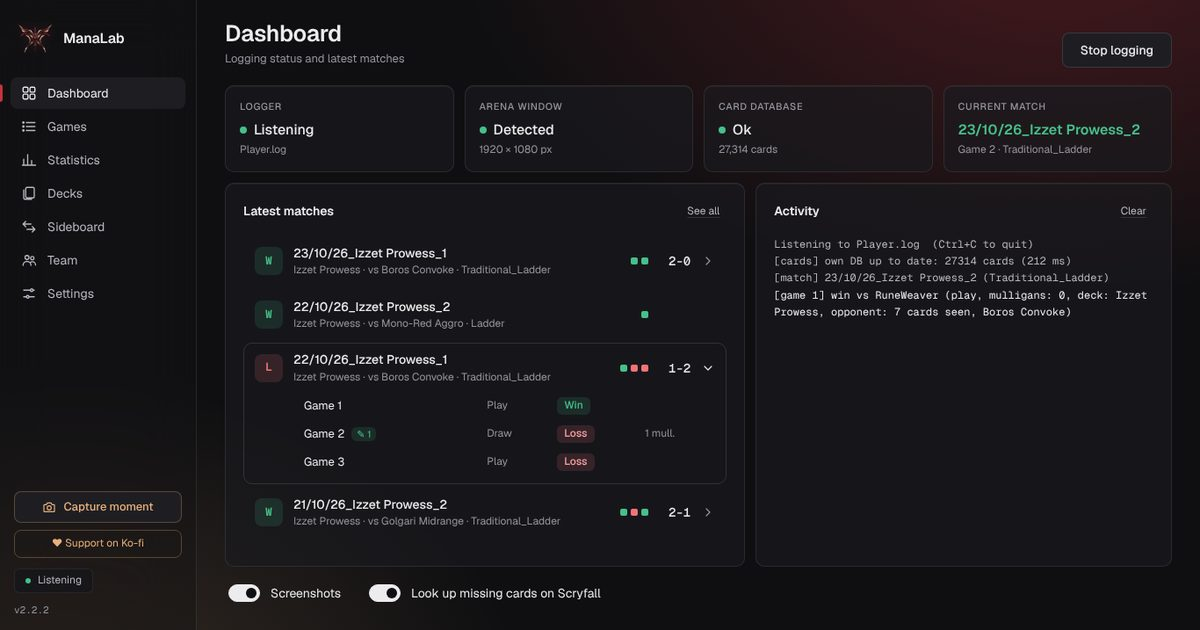
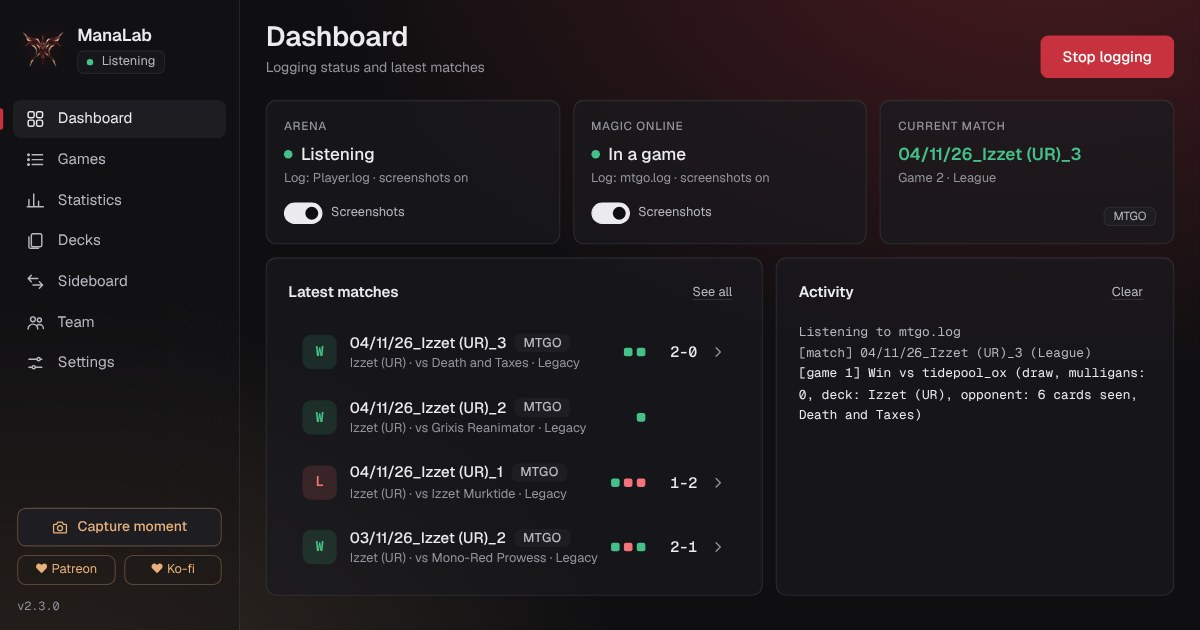
Web 2.3: ancla #magic-online en la FAQ, og.jpg con la 2.3.0 y MTGO, capturas de Magic Online en Novedades
Claude-Session: https://claude.ai/code/session_01AcWBVMV74zF2awVGossMpq

diff --git a/es/index.html b/es/index.html
@@ -243,6 +243,8 @@ a.idioma { text-decoration: none; display: inline-grid; place-items: center; }
 .novedad { display: grid; grid-template-columns: minmax(0, 1.15fr) minmax(0, 0.85fr); gap: 40px; align-items: center; }
 .novedad:nth-child(even) { grid-template-columns: minmax(0, 0.85fr) minmax(0, 1.15fr); }
 .novedad:nth-child(even) .ventana { order: 2; }
+.novedades.mtgo-capturas { margin-top: 28px; }
+details[id] { scroll-margin-top: 90px; }
 .novedad .ventana { align-self: center; }
 .novedad .ventana img { aspect-ratio: auto; height: auto; object-fit: contain; }
 .novedad .ventana.estrecha { justify-self: center; width: 100%; max-width: 440px; }
@@ -347,6 +349,20 @@ a.idioma { text-decoration: none; display: inline-grid; place-items: center; }
 <h3>Manual de usuario en inglés</h3>
 <p>Un manual en PDF que llega con cada versión.</p>
 <p><a class="enlace-man" href="https://github.com/EusebioG96/ManaLab/releases/download/v2.3.0/ManaLab-manual-en.pdf" rel="noopener">Descargar el manual (PDF, en inglés) →</a></p></div>
+</div>
+<div class="novedades mtgo-capturas">
+<div class="novedad">
+<div class="ventana"><img alt="Panel de ManaLab con Arena escuchando y Magic Online en partida, leyendo mtgo.log, y los últimos matches con la etiqueta MTGO, con datos de ejemplo" height="860" loading="lazy" src="../img/es_mtgo_panel.jpg" width="1366"/></div>
+<div><div class="eti">Panel</div>
+<h3>Arena y Magic Online, lado a lado</h3>
+<p>El Panel muestra el estado de cada juego y tus últimos matches, con una pequeña etiqueta MTGO en los que jugaste en Magic Online.</p></div>
+</div>
+<div class="novedad">
+<div class="ventana"><img alt="Aviso de banquillo de ManaLab sobre Magic Online entre partidas: «¿Cambiaste el banquillo?» con los botones «Usar este cambio», «Sin cambios» y «Editar», con datos de ejemplo" height="440" loading="lazy" src="../img/es_mtgo_banquillo.jpg" width="1000"/></div>
+<div><div class="eti">Banquillo</div>
+<h3>Confirma tu banquillo con un clic</h3>
+<p>Magic Online no envía a tiempo tu lista con el banquillo, así que entre partidas un panel pequeño te pregunta si la cambiaste: usa el cambio de la última vez, indica que no hubo cambios o abre el editor.</p></div>
+</div>
 </div>
 <div class="mtgo-caja">
 <h3>Magic Online en ManaLab: qué es igual y qué cambia</h3>
@@ -541,7 +557,7 @@ a.idioma { text-decoration: none; display: inline-grid; place-items: center; }
 <details><summary>Windows dice «Windows protegió su PC». ¿Es seguro?</summary>
 <p>Ese aviso sale con los programas que no tienen un certificado de firma de pago, algo habitual en herramientas gratuitas pequeñas. Pulsa «Más información» y luego «Ejecutar de todas formas». Solo sale en la primera descarga: las versiones nuevas se instalan con «Actualizar ahora» desde la propia app, sin aviso. Para evitarlo también la primera vez, antes de descomprimir haz botón derecho en el ZIP › Propiedades › marca «Desbloquear» › Aceptar. Cada versión se comprueba en VirusTotal antes de publicarla.</p>
 <p>Más detalles: <a href="/es/seguridad/">¿Es seguro ManaLab?</a></p></details>
-<details><summary>¿Funciona con Magic Online?</summary>
+<details id="magic-online"><summary>¿Funciona con Magic Online?</summary>
 <p>Sí, desde la 2.3. ManaLab registra tus partidas de Magic Online (MTGO) como las de Arena: manos, mulligans, play/draw, mazo del rival, estadísticas, repetición y overlay. No hay que configurar nada: empieza solo cuando abres Magic Online, y puedes importar un archivo mtgo.log. Lo que cambia: Magic Online no envía las fases ni las cartas giradas, así que ManaLab las deduce del registro, y en la repetición lo deducido lleva la marca ≈ porque puede no ser exacto. Magic Online tampoco da a tiempo tu lista tras el banquillo: ManaLab te pide confirmar tus cambios entre partidas con un clic y, hasta entonces, el overlay marca la lista como sin confirmar. El overlay puede mostrar menos que en Arena si el registro no trae el estado de la mesa. Tu mazo se nombra por sus colores.</p></details>
 <details><summary>¿Funciona en Mac o en Limitado?</summary>
 <p>De momento es para Windows. Registra cualquier partida de Arena o de Magic Online, también de Limitado. El mazo del rival se compara con los mazos del meta del formato de la partida (Standard, Pioneer, Modern, Legacy, Vintage y Pauper); si nada coincide con claridad, como en Limitado, se nombra por sus colores.</p></details>
@@ -630,6 +646,18 @@ a.idioma { text-decoration: none; display: inline-grid; place-items: center; }
       img.src = base + b.dataset.tab + ".jpg";
     });
   });
+})();
+</script><script>
+(function () {
+  /* un <details> cerrado no se ve: al entrar por #magic-online (u otra pregunta con id) se abre sola */
+  function abrir() {
+    var d = null;
+    try { d = location.hash.length > 1 && document.getElementById(decodeURIComponent(location.hash.slice(1))); } catch (e) {}
+    if (d && d.tagName === "DETAILS") { d.open = true; d.scrollIntoView({ behavior: "instant" }); }
+  }
+  abrir();
+  window.addEventListener("load", abrir);   /* otra vez con las imágenes ya cargadas: el desplazamiento cuadra */
+  window.addEventListener("hashchange", abrir);
 })();
 </script><script data-goatcounter="https://manalab.goatcounter.com/count" async src="//gc.zgo.at/count.js"></script></body>
 </html>

diff --git a/index.html b/index.html
@@ -243,6 +243,8 @@ a.idioma { text-decoration: none; display: inline-grid; place-items: center; }
 .novedad { display: grid; grid-template-columns: minmax(0, 1.15fr) minmax(0, 0.85fr); gap: 40px; align-items: center; }
 .novedad:nth-child(even) { grid-template-columns: minmax(0, 0.85fr) minmax(0, 1.15fr); }
 .novedad:nth-child(even) .ventana { order: 2; }
+.novedades.mtgo-capturas { margin-top: 28px; }
+details[id] { scroll-margin-top: 90px; }
 .novedad .ventana { align-self: center; }
 .novedad .ventana img { aspect-ratio: auto; height: auto; object-fit: contain; }
 .novedad .ventana.estrecha { justify-self: center; width: 100%; max-width: 440px; }
@@ -347,6 +349,20 @@ a.idioma { text-decoration: none; display: inline-grid; place-items: center; }
 <h3>User manual in English</h3>
 <p>A PDF manual that comes with every version.</p>
 <p><a class="enlace-man" href="https://github.com/EusebioG96/ManaLab/releases/download/v2.3.0/ManaLab-manual-en.pdf" rel="noopener">Download the manual (PDF) →</a></p></div>
+</div>
+<div class="novedades mtgo-capturas">
+<div class="novedad">
+<div class="ventana"><img alt="ManaLab Dashboard with Arena listening and Magic Online in a game, reading mtgo.log, and the latest matches with an MTGO tag, shown with sample data" height="860" loading="lazy" src="img/en_mtgo_panel.jpg" width="1366"/></div>
+<div><div class="eti">Dashboard</div>
+<h3>Arena and Magic Online, side by side</h3>
+<p>The Dashboard shows the state of each game and your latest matches, with a small MTGO tag on the ones you played in Magic Online.</p></div>
+</div>
+<div class="novedad">
+<div class="ventana"><img alt="ManaLab sideboard notice over Magic Online between games: «Did you change your sideboard?» with the buttons «Use this change», «No changes» and «Edit», shown with sample data" height="440" loading="lazy" src="img/en_mtgo_banquillo.jpg" width="1000"/></div>
+<div><div class="eti">Sideboard</div>
+<h3>Confirm your sideboard in one click</h3>
+<p>Magic Online doesn't send your sideboarded list in time, so between games a small panel asks whether you changed it: use last time's change, say there were none, or open the editor.</p></div>
+</div>
 </div>
 <div class="mtgo-caja">
 <h3>Magic Online in ManaLab: what is the same and what is different</h3>
@@ -541,7 +557,7 @@ a.idioma { text-decoration: none; display: inline-grid; place-items: center; }
 <details><summary>Windows says «Windows protected your PC». Is it safe?</summary>
 <p>That warning appears for programs without a paid code-signing certificate, which is common for small free tools. Click «More info» and then «Run anyway». It only shows on the first download: new versions install with «Update now» from inside the app, with no warning. To avoid it the first time too, before unzipping right-click the ZIP › Properties › tick «Unblock» › OK. Every version is checked on VirusTotal before it's published.</p>
 <p>More details: <a href="/safety/">Is ManaLab safe?</a></p></details>
-<details><summary>Does it work with Magic Online?</summary>
+<details id="magic-online"><summary>Does it work with Magic Online?</summary>
 <p>Yes, from 2.3. ManaLab records your Magic Online (MTGO) games like Arena's: hands, mulligans, play or draw, the opponent's deck, statistics, replay and overlay. There is nothing to set up: it starts by itself when you open Magic Online, and you can import an mtgo.log file. What is different: Magic Online doesn't send turn phases or tapped cards, so ManaLab works them out from the log, and in the replay anything worked out is marked ≈ because it may not be exact. Magic Online doesn't give your sideboarded list in time either: ManaLab asks you to confirm your changes between games with one click, and until you do the overlay shows the list as unconfirmed. The overlay can show less than in Arena when the log has no table state. Your deck is named by its colors.</p></details>
 <details><summary>Does it work on Mac or for Limited?</summary>
 <p>For now it's for Windows. It logs any Arena or Magic Online game, including Limited. The opponent's deck is compared with the meta decks of the game's format (Standard, Pioneer, Modern, Legacy, Vintage and Pauper); if nothing clearly matches, as in Limited, it is named by its colors.</p></details>
@@ -630,6 +646,18 @@ a.idioma { text-decoration: none; display: inline-grid; place-items: center; }
       img.src = base + b.dataset.tab + ".jpg";
     });
   });
+})();
+</script><script>
+(function () {
+  /* un <details> cerrado no se ve: al entrar por #magic-online (u otra pregunta con id) se abre sola */
+  function abrir() {
+    var d = null;
+    try { d = location.hash.length > 1 && document.getElementById(decodeURIComponent(location.hash.slice(1))); } catch (e) {}
+    if (d && d.tagName === "DETAILS") { d.open = true; d.scrollIntoView({ behavior: "instant" }); }
+  }
+  abrir();
+  window.addEventListener("load", abrir);   /* otra vez con las imágenes ya cargadas: el desplazamiento cuadra */
+  window.addEventListener("hashchange", abrir);
 })();
 </script><script data-goatcounter="https://manalab.goatcounter.com/count" async src="//gc.zgo.at/count.js"></script></body>
 </html>
